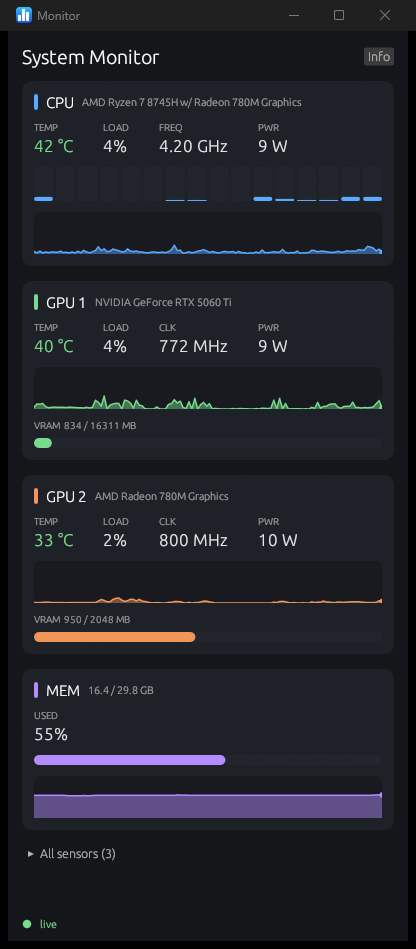
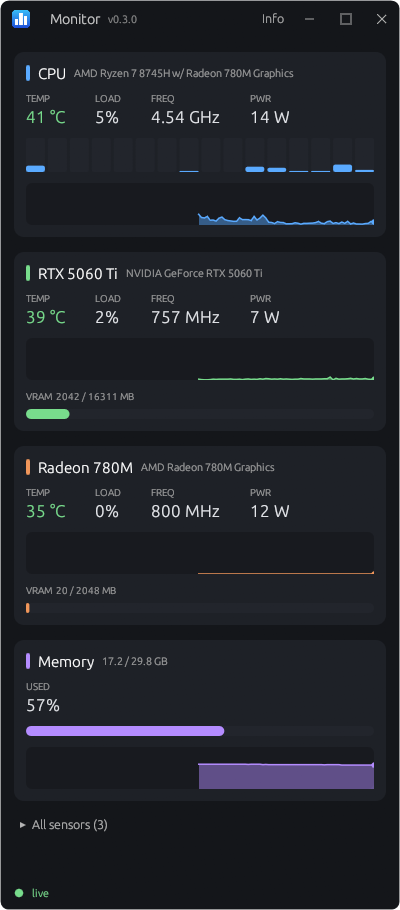
stack temperature and load when the taskbar is short of room

diff --git a/docs/index.html b/docs/index.html
@@ -101,7 +101,7 @@
         </div>
         <p class="note">Free and open source (MIT). Needs 64-bit Windows.</p>
       </div>
-      <img class="shot" src="screenshot.png" width="416" height="949" alt="Monitor's window, showing live cards for the CPU, two GPUs and memory, each with temperature, load and a history graph">
+      <img class="shot" src="screenshot.png" width="400" height="910" alt="Monitor's window, showing live cards for the CPU, two GPUs and memory, each with temperature, load and a history graph">
     </div>
 
     <section id="features">

diff --git a/src/tray.rs b/src/tray.rs
@@ -1897,6 +1897,9 @@ struct TaskbarLayout {
     rows: usize,
     /// How many readings to keep on the first row, once it's the only one.
     first_row_values: usize,
+    /// Whether those readings stack instead of sitting side by side, taking the width of
+    /// just the widest one.
+    stacked: bool,
 }
 
 impl TaskbarLayout {
@@ -1913,19 +1916,25 @@ impl TaskbarLayout {
 }
 
 /// The layouts to try, fullest first. Labels go first, since the units mostly say what's
-/// what. Then rows from the end, then readings from the end of the one row left.
+/// what. Then rows from the end, then readings from the end of the one row left, with the
+/// first two stacked before giving up the second of them.
 fn taskbar_layouts(rows: usize, first_row_values: usize) -> Vec<TaskbarLayout> {
-    let with = |labels, rows, first_row_values| TaskbarLayout {
+    let with = |labels, rows, first_row_values, stacked| TaskbarLayout {
         labels,
         rows,
         first_row_values,
+        stacked,
     };
     let mut layouts = vec![
-        with(true, rows, first_row_values),
-        with(false, rows, first_row_values),
+        with(true, rows, first_row_values, false),
+        with(false, rows, first_row_values, false),
     ];
-    layouts.extend((1..rows).rev().map(|r| with(false, r, first_row_values)));
-    layouts.extend((1..first_row_values).rev().map(|v| with(false, 1, v)));
+    layouts.extend((1..rows).rev().map(|r| with(false, r, first_row_values, false)));
+    layouts.extend((2..first_row_values).rev().map(|v| with(false, 1, v, false)));
+    if first_row_values >= 2 {
+        layouts.push(with(false, 1, 2, true));
+        layouts.push(with(false, 1, 1, false));
+    }
     layouts
 }
 
@@ -2005,7 +2014,7 @@ fn taskbar_columns(
     per_column: usize,
     gaps: TaskbarGaps,
 ) -> Vec<(i32, ValueGrid)> {
-    let kept: Vec<(i32, &[i32])> = widths
+    let mut kept: Vec<(i32, &[i32])> = widths
         .iter()
         .enumerate()
         .filter_map(|(i, row)| {
@@ -2013,6 +2022,12 @@ fn taskbar_columns(
             Some((row.label, &row.values[..count]))
         })
         .collect();
+    if layout.stacked {
+        kept = kept
+            .iter()
+            .flat_map(|&(label, values)| values.chunks(1).map(move |value| (label, value)))
+            .collect();
+    }
     kept.chunks(per_column.max(1))
         .map(|column| {
             let label = column.iter().map(|c| c.0).max().unwrap_or(0);
@@ -2097,6 +2112,7 @@ unsafe fn render_taskbar_widget(rows: &[Row], scale: f32, height: i32, room: i32
         labels: false,
         rows: 0,
         first_row_values: 0,
+        stacked: false,
     };
     let layout = layouts.get(level).copied().unwrap_or(hide_all);
     let shown: Vec<Row> = rows
@@ -2111,6 +2127,19 @@ unsafe fn render_taskbar_widget(rows: &[Row], scale: f32, height: i32, room: i32
         .collect();
     let total = |rows: &[Row]| rows.iter().map(|row| row.values.len()).sum::<usize>();
     let hidden = total(rows) - total(&shown);
+    let shown: Vec<Row> = if layout.stacked {
+        shown
+            .iter()
+            .flat_map(|row| {
+                row.values.iter().map(|value| Row {
+                    label: row.label.clone(),
+                    values: vec![value.clone()],
+                })
+            })
+            .collect()
+    } else {
+        shown
+    };
     if level != before {
         log::info!("taskbar widget in {room} px: {layout:?}, {hidden} readings hidden");
     }
@@ -2497,17 +2526,45 @@ mod tests {
         let layouts = taskbar_layouts(2, 3);
         let fit = |room| {
             let level = taskbar_level(&layouts, &widths, 2, gaps(), room, 0, 0);
-            layouts.get(level).map(|l| (l.labels, l.rows, l.first_row_values))
+            layouts.get(level).map(|l| (l.labels, l.rows, l.first_row_values, l.stacked))
         };
-        assert_eq!(fit(1000), Some((true, 2, 3)));
-        assert_eq!(fit(144), Some((true, 2, 3)), "exactly fits: 40 + 6 + 86 + 12");
-        assert_eq!(fit(143), Some((false, 2, 3)));
-        assert_eq!(fit(98), Some((false, 2, 3)));
-        assert_eq!(fit(97), Some((false, 1, 2)), "dropping Memory alone doesn't narrow it");
-        assert_eq!(fit(70), Some((false, 1, 2)));
-        assert_eq!(fit(69), Some((false, 1, 1)));
-        assert_eq!(fit(42), Some((false, 1, 1)));
+        assert_eq!(fit(1000), Some((true, 2, 3, false)));
+        assert_eq!(fit(144), Some((true, 2, 3, false)), "exactly fits: 40 + 6 + 86 + 12");
+        assert_eq!(fit(143), Some((false, 2, 3, false)));
+        assert_eq!(fit(98), Some((false, 2, 3, false)));
+        assert_eq!(fit(97), Some((false, 1, 2, false)), "dropping Memory alone doesn't narrow it");
+        assert_eq!(fit(70), Some((false, 1, 2, false)));
+        assert_eq!(fit(69), Some((false, 1, 2, true)), "stacks rather than lose the second");
+        assert_eq!(fit(42), Some((false, 1, 2, true)));
         assert_eq!(fit(41), None, "nothing fits, and it must not cover the icons");
+    }
+
+    #[test]
+    fn the_second_reading_goes_only_when_stacking_is_too_wide() {
+        // The second reading is the wider one, so stacking needs 60 + 12 and alone needs 30 + 12.
+        let widths = [row_widths(30, &[30, 60])];
+        let layouts = taskbar_layouts(1, 2);
+        let fit = |room| {
+            let level = taskbar_level(&layouts, &widths, 2, gaps(), room, 0, 0);
+            layouts.get(level).map(|l| (l.first_row_values, l.stacked))
+        };
+        assert_eq!(fit(72), Some((2, true)));
+        assert_eq!(fit(71), Some((1, false)));
+        assert_eq!(fit(42), Some((1, false)));
+        assert_eq!(fit(41), None);
+    }
+
+    #[test]
+    fn stacked_readings_each_take_a_line_of_one_column() {
+        let widths = [row_widths(30, &[40, 25, 20])];
+        let stacked = taskbar_layouts(1, 3).into_iter().find(|l| l.stacked).unwrap();
+        assert_eq!(stacked.first_row_values, 2);
+        let columns = taskbar_columns(stacked, &widths, 2, gaps());
+        assert_eq!(columns.len(), 1);
+        assert_eq!(columns[0].1.width, 40);
+        // A taskbar too short to stack gets two columns, which is no narrower, so this
+        // layout then never wins over the single reading.
+        assert_eq!(taskbar_columns(stacked, &widths, 1, gaps()).len(), 2);
     }
 
     #[test]
@@ -2561,8 +2618,9 @@ mod tests {
     /// What the default readings do on a laptop, using real text measurements and the
     /// taskbar sizes measured on Windows 11 at 100%: 45 px for Start, 44 for Task View
     /// and each app, 220 or 44 for search, 251 for the tray. Returns the free space, whether
-    /// labels show, how many rows show, and how many readings the first row keeps.
-    fn laptop_layout(screen_w: i32, scale: f32, search_w: f32, apps: u32) -> (i32, bool, usize, usize) {
+    /// labels show, how many rows show, how many readings the first row keeps, and whether
+    /// they're stacked.
+    fn laptop_layout(screen_w: i32, scale: f32, search_w: f32, apps: u32) -> (i32, bool, usize, usize, bool) {
         let px = |v: f32| (v * scale).round() as i32;
         let bar = rect(0, 0, screen_w, px(48.0));
         let tray_left = screen_w - px(251.0);
@@ -2581,19 +2639,19 @@ mod tests {
         let layouts = taskbar_layouts(rows.len(), rows[0].values.len());
         let level = taskbar_level(&layouts, &widths, TASKBAR_ROWS_PER_COLUMN, gaps, room, 0, 0);
         let layout = layouts[level];
-        (room, layout.labels, layout.rows, layout.first_row_values)
+        (room, layout.labels, layout.rows, layout.first_row_values, layout.stacked)
     }
 
     #[test]
     fn fourteen_inch_laptop_with_eight_apps() {
         let at = |w, scale, search| laptop_layout(w, scale, search, 8);
         let (box_w, icon_w) = (220.0, 44.0);
-        assert_eq!(at(1920, 1.5, box_w), (83, false, 1, 1), "1080p at 150%, search box");
-        assert_eq!(at(1920, 1.5, icon_w), (215, false, 1, 2), "1080p at 150%, search icon");
-        assert_eq!(at(1920, 1.25, box_w), (229, false, 2, 3), "1080p at 125%, search box");
-        assert_eq!(at(1920, 1.25, icon_w), (339, true, 2, 3), "1080p at 125%, search icon");
-        assert_eq!(at(1366, 1.0, box_w), (98, false, 1, 2), "1366x768, search box");
-        assert_eq!(at(1366, 1.0, icon_w), (186, false, 2, 3), "1366x768, search icon");
+        assert_eq!(at(1920, 1.5, box_w), (83, false, 1, 2, true), "1080p at 150%, search box");
+        assert_eq!(at(1920, 1.5, icon_w), (215, false, 1, 2, false), "1080p at 150%, search icon");
+        assert_eq!(at(1920, 1.25, box_w), (229, false, 2, 3, false), "1080p at 125%, search box");
+        assert_eq!(at(1920, 1.25, icon_w), (339, true, 2, 3, false), "1080p at 125%, search icon");
+        assert_eq!(at(1366, 1.0, box_w), (98, false, 1, 2, false), "1366x768, search box");
+        assert_eq!(at(1366, 1.0, icon_w), (186, false, 2, 3, false), "1366x768, search icon");
     }
 
     fn monitor(name: &str, left: i32, primary: bool) -> MonitorEntry {
